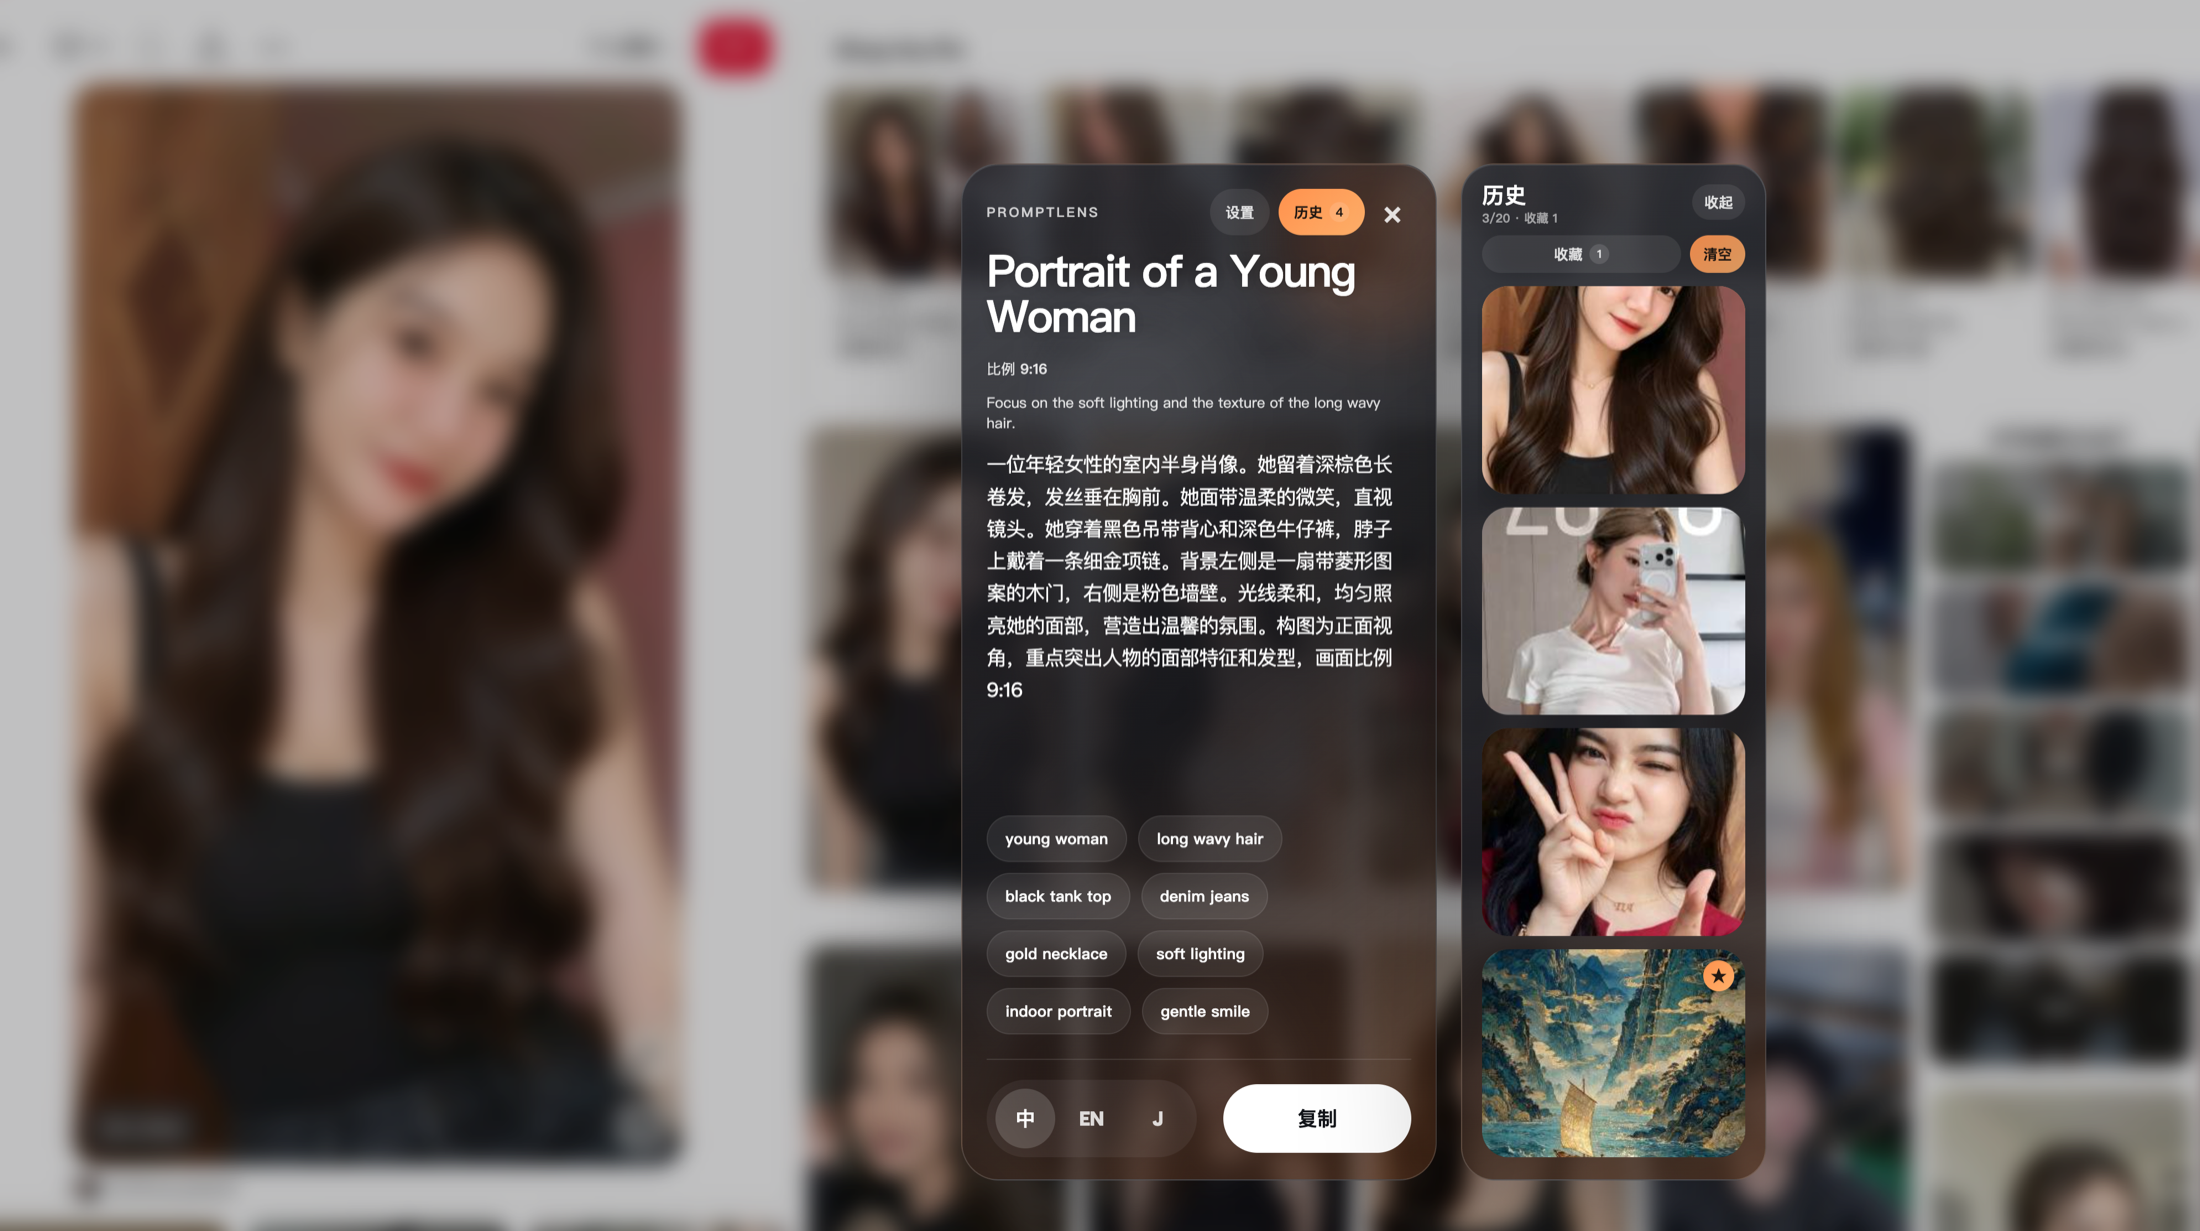
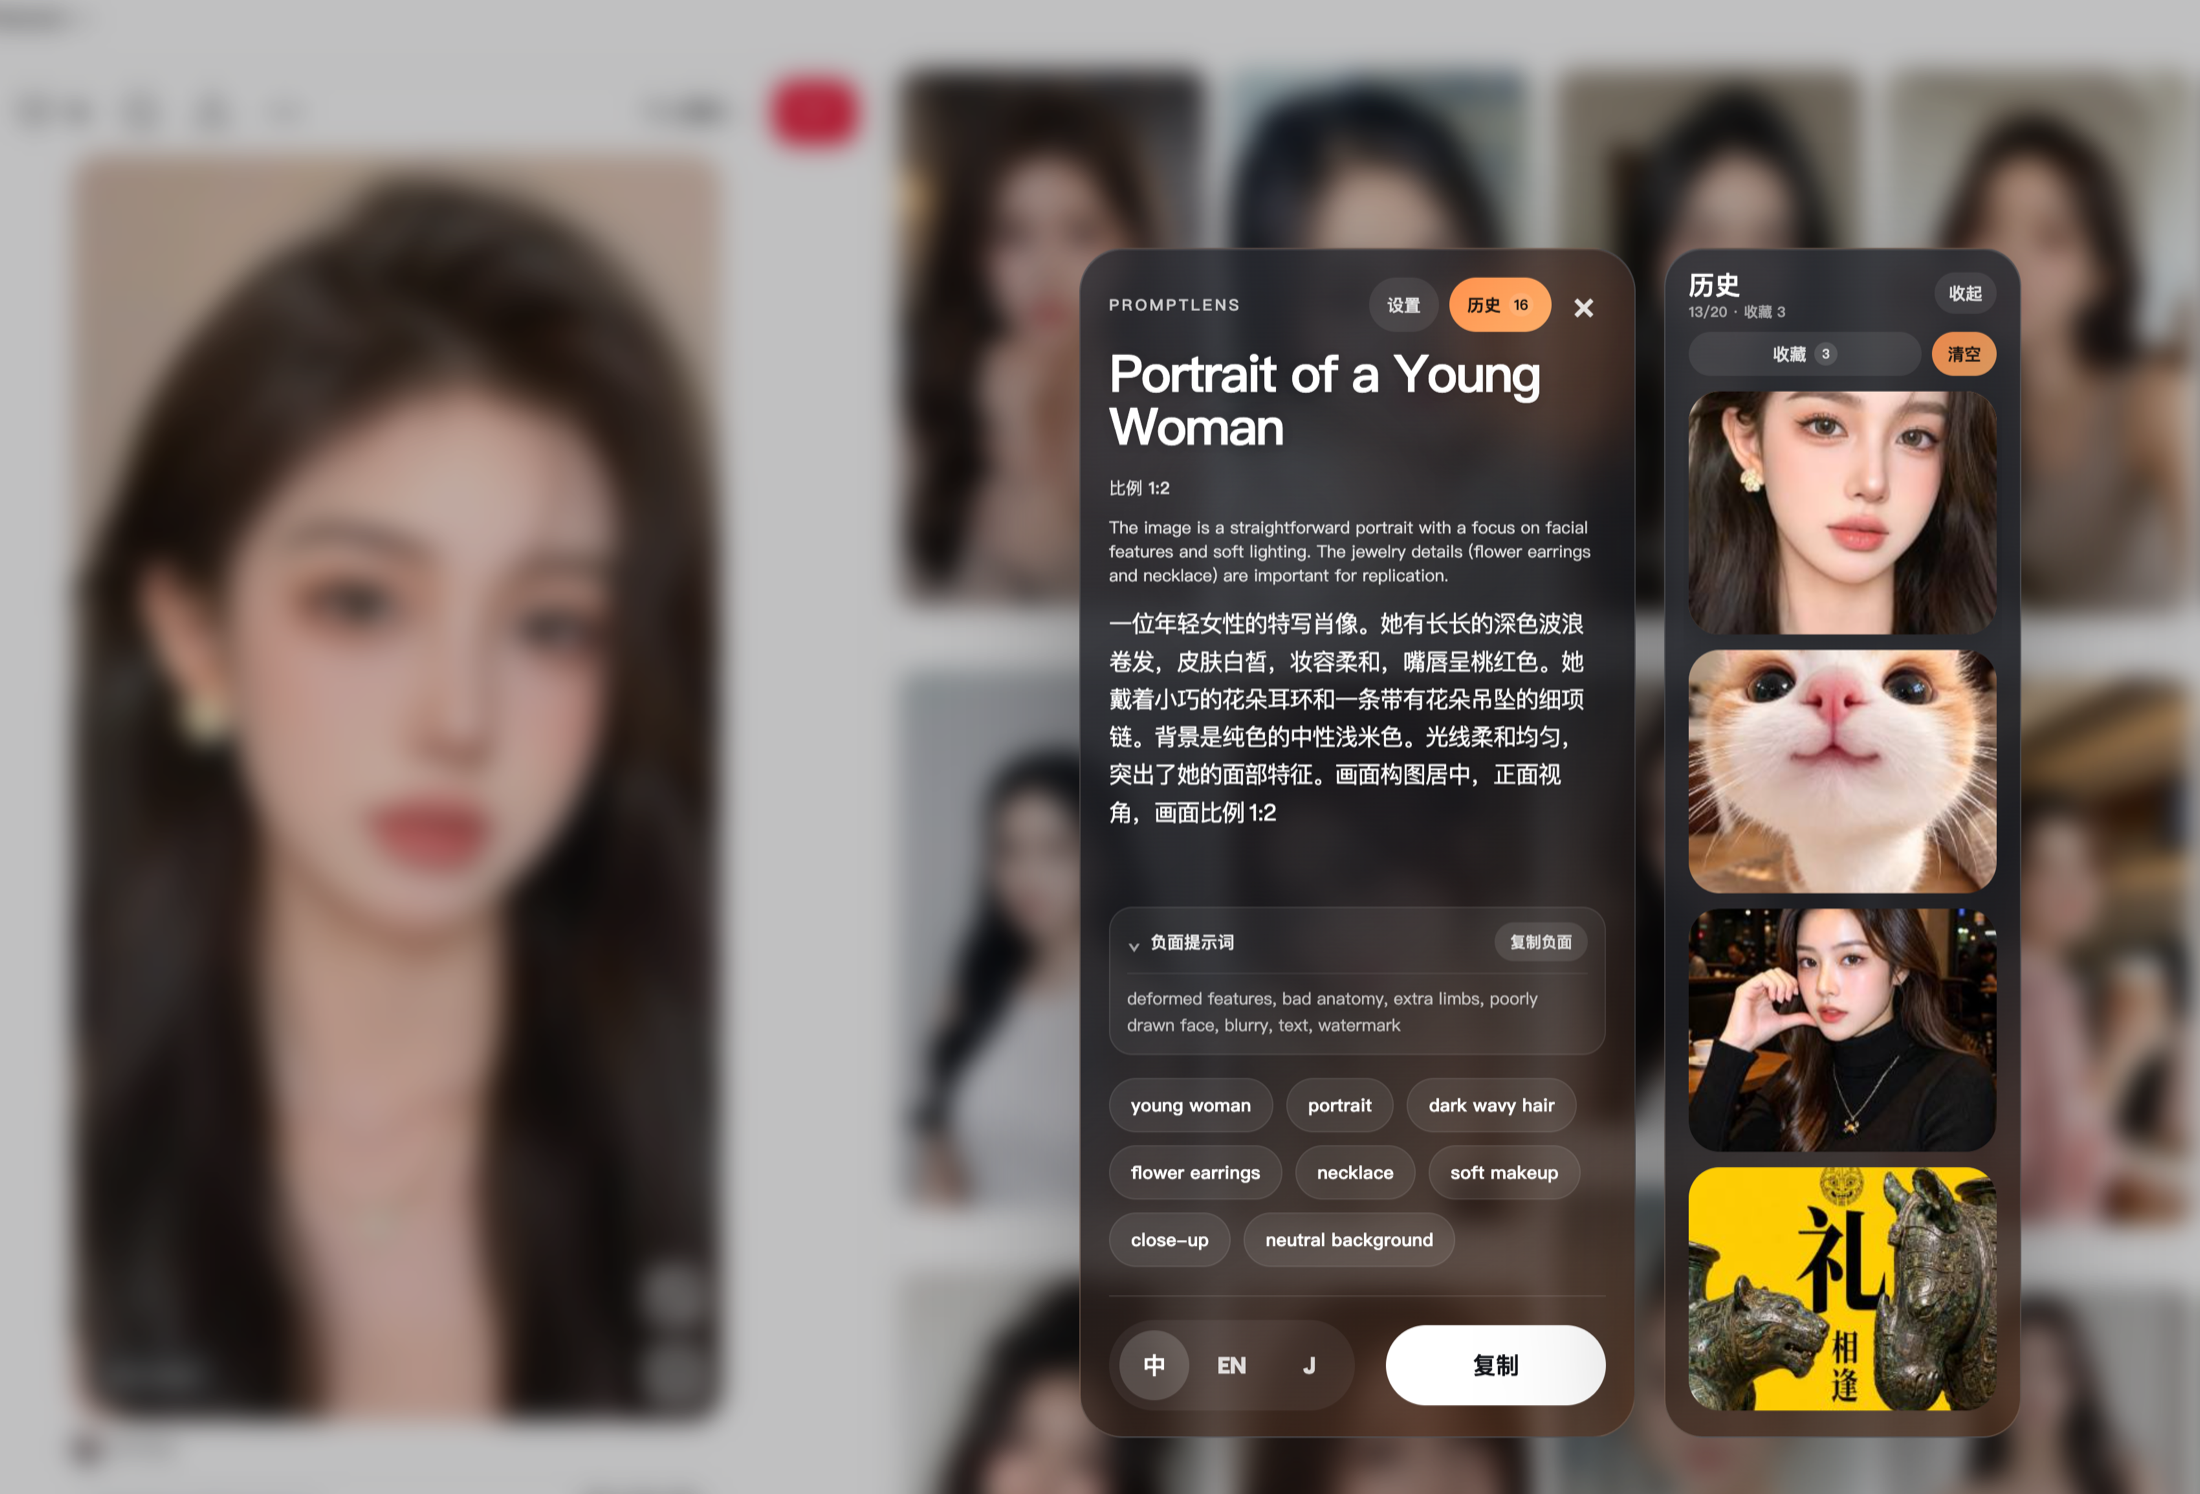
release: publish PromptLens 1.1.0

diff --git a/README.md b/README.md
@@ -16,6 +16,7 @@ PromptLens 是一款 Chrome / Edge 图片反向提示词扩展。它可以分析
 
 - 右键分析网页图片，或点击扩展图标上传、粘贴本地图片
 - 输出中文、英文和结构化 JSON 提示词
+- 针对当前图片生成负面提示词，支持折叠查看与单独复制
 - 场景自适应分析人物、产品、建筑、风景、插画、3D、海报、UI 等图片
 - 自动提取画面比例、主体、构图、光线、色彩、材质与风格
 - 本地历史记录、单条删除、清空和收藏保护
@@ -61,9 +62,9 @@ PromptLens 配置格式：
 
 ### 下载
 
-前往 [Releases](https://github.com/binghe1980/PromptLens/releases/latest) 下载 `PromptLens-v1.0.1.zip`，然后解压。也可以使用[直接下载链接](https://github.com/binghe1980/PromptLens/releases/latest/download/PromptLens-v1.0.1.zip)。
+前往 [Releases](https://github.com/binghe1980/PromptLens/releases/latest) 下载 `PromptLens-v1.1.0.zip`，然后解压。也可以使用[直接下载链接](https://github.com/binghe1980/PromptLens/releases/latest/download/PromptLens-v1.1.0.zip)。
 
-版本规则：`1.0.x` 用于修复和兼容优化，`1.x.0` 用于新增向后兼容功能，`x.0.0` 用于不兼容变更。
+版本规划：当前功能版本为 `1.1.0`；`1.1.x` 用于兼容修复，下一项向后兼容的新功能使用 `1.2.0`，不兼容变更才升级到 `2.0.0`。
 
 ### Chrome 安装
 
@@ -117,6 +118,7 @@ PromptLens is a Chrome / Edge reverse-prompt extension. It analyzes webpage imag
 
 - Analyze a webpage image from the context menu, or upload/paste a local image from the toolbar
 - Generate Chinese, English, and structured JSON prompts
+- Generate image-specific negative prompts with collapsible display and separate copying
 - Scene-adaptive analysis for portraits, products, architecture, landscapes, illustration, 3D, posters, UI, and mixed images
 - Extract aspect ratio, subject, composition, lighting, colors, materials, and visual style
 - Local history with individual deletion, clear-all, and protected favorites
@@ -124,9 +126,9 @@ PromptLens is a Chrome / Edge reverse-prompt extension. It analyzes webpage imag
 
 ### Download
 
-Open [Releases](https://github.com/binghe1980/PromptLens/releases/latest), download `PromptLens-v1.0.1.zip`, and unzip it. A [direct download link](https://github.com/binghe1980/PromptLens/releases/latest/download/PromptLens-v1.0.1.zip) is also available.
+Open [Releases](https://github.com/binghe1980/PromptLens/releases/latest), download `PromptLens-v1.1.0.zip`, and unzip it. A [direct download link](https://github.com/binghe1980/PromptLens/releases/latest/download/PromptLens-v1.1.0.zip) is also available.
 
-Versioning: `1.0.x` is for fixes and compatible refinements, `1.x.0` for backward-compatible features, and `x.0.0` for breaking changes.
+Version plan: the current feature release is `1.1.0`; `1.1.x` is reserved for compatible fixes, the next backward-compatible feature release will be `1.2.0`, and breaking changes will use `2.0.0`.
 
 ### Install on Chrome
 
